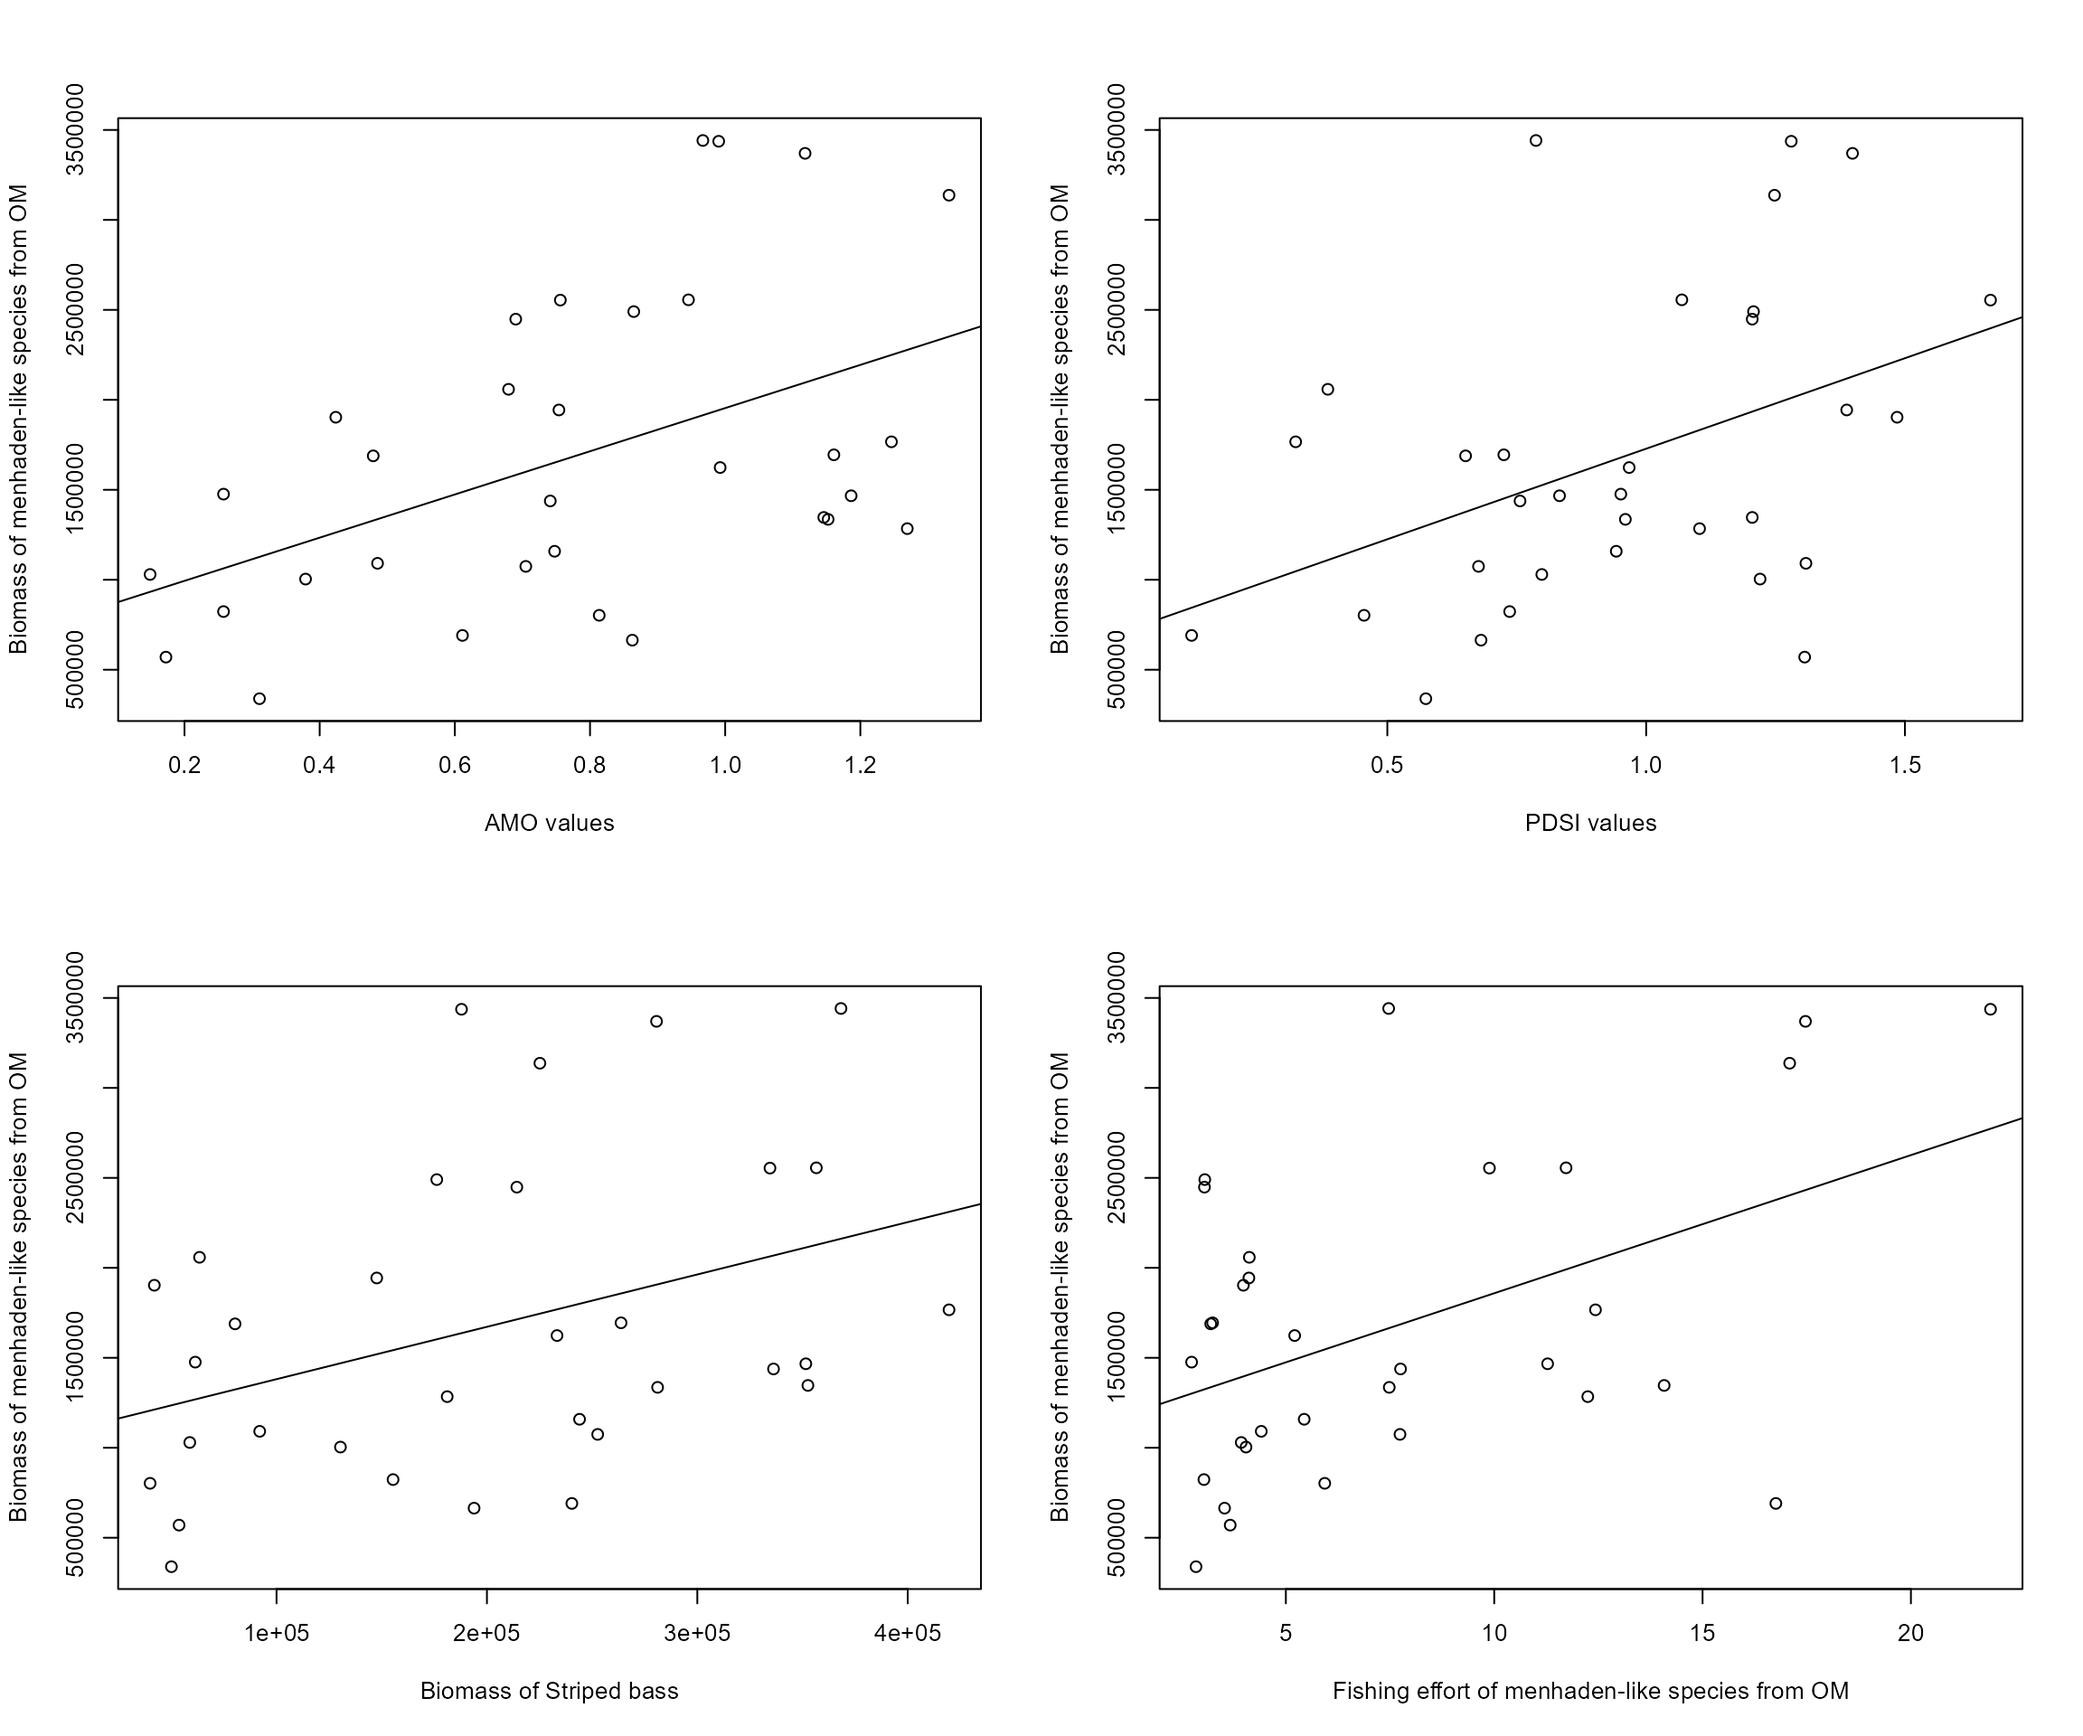
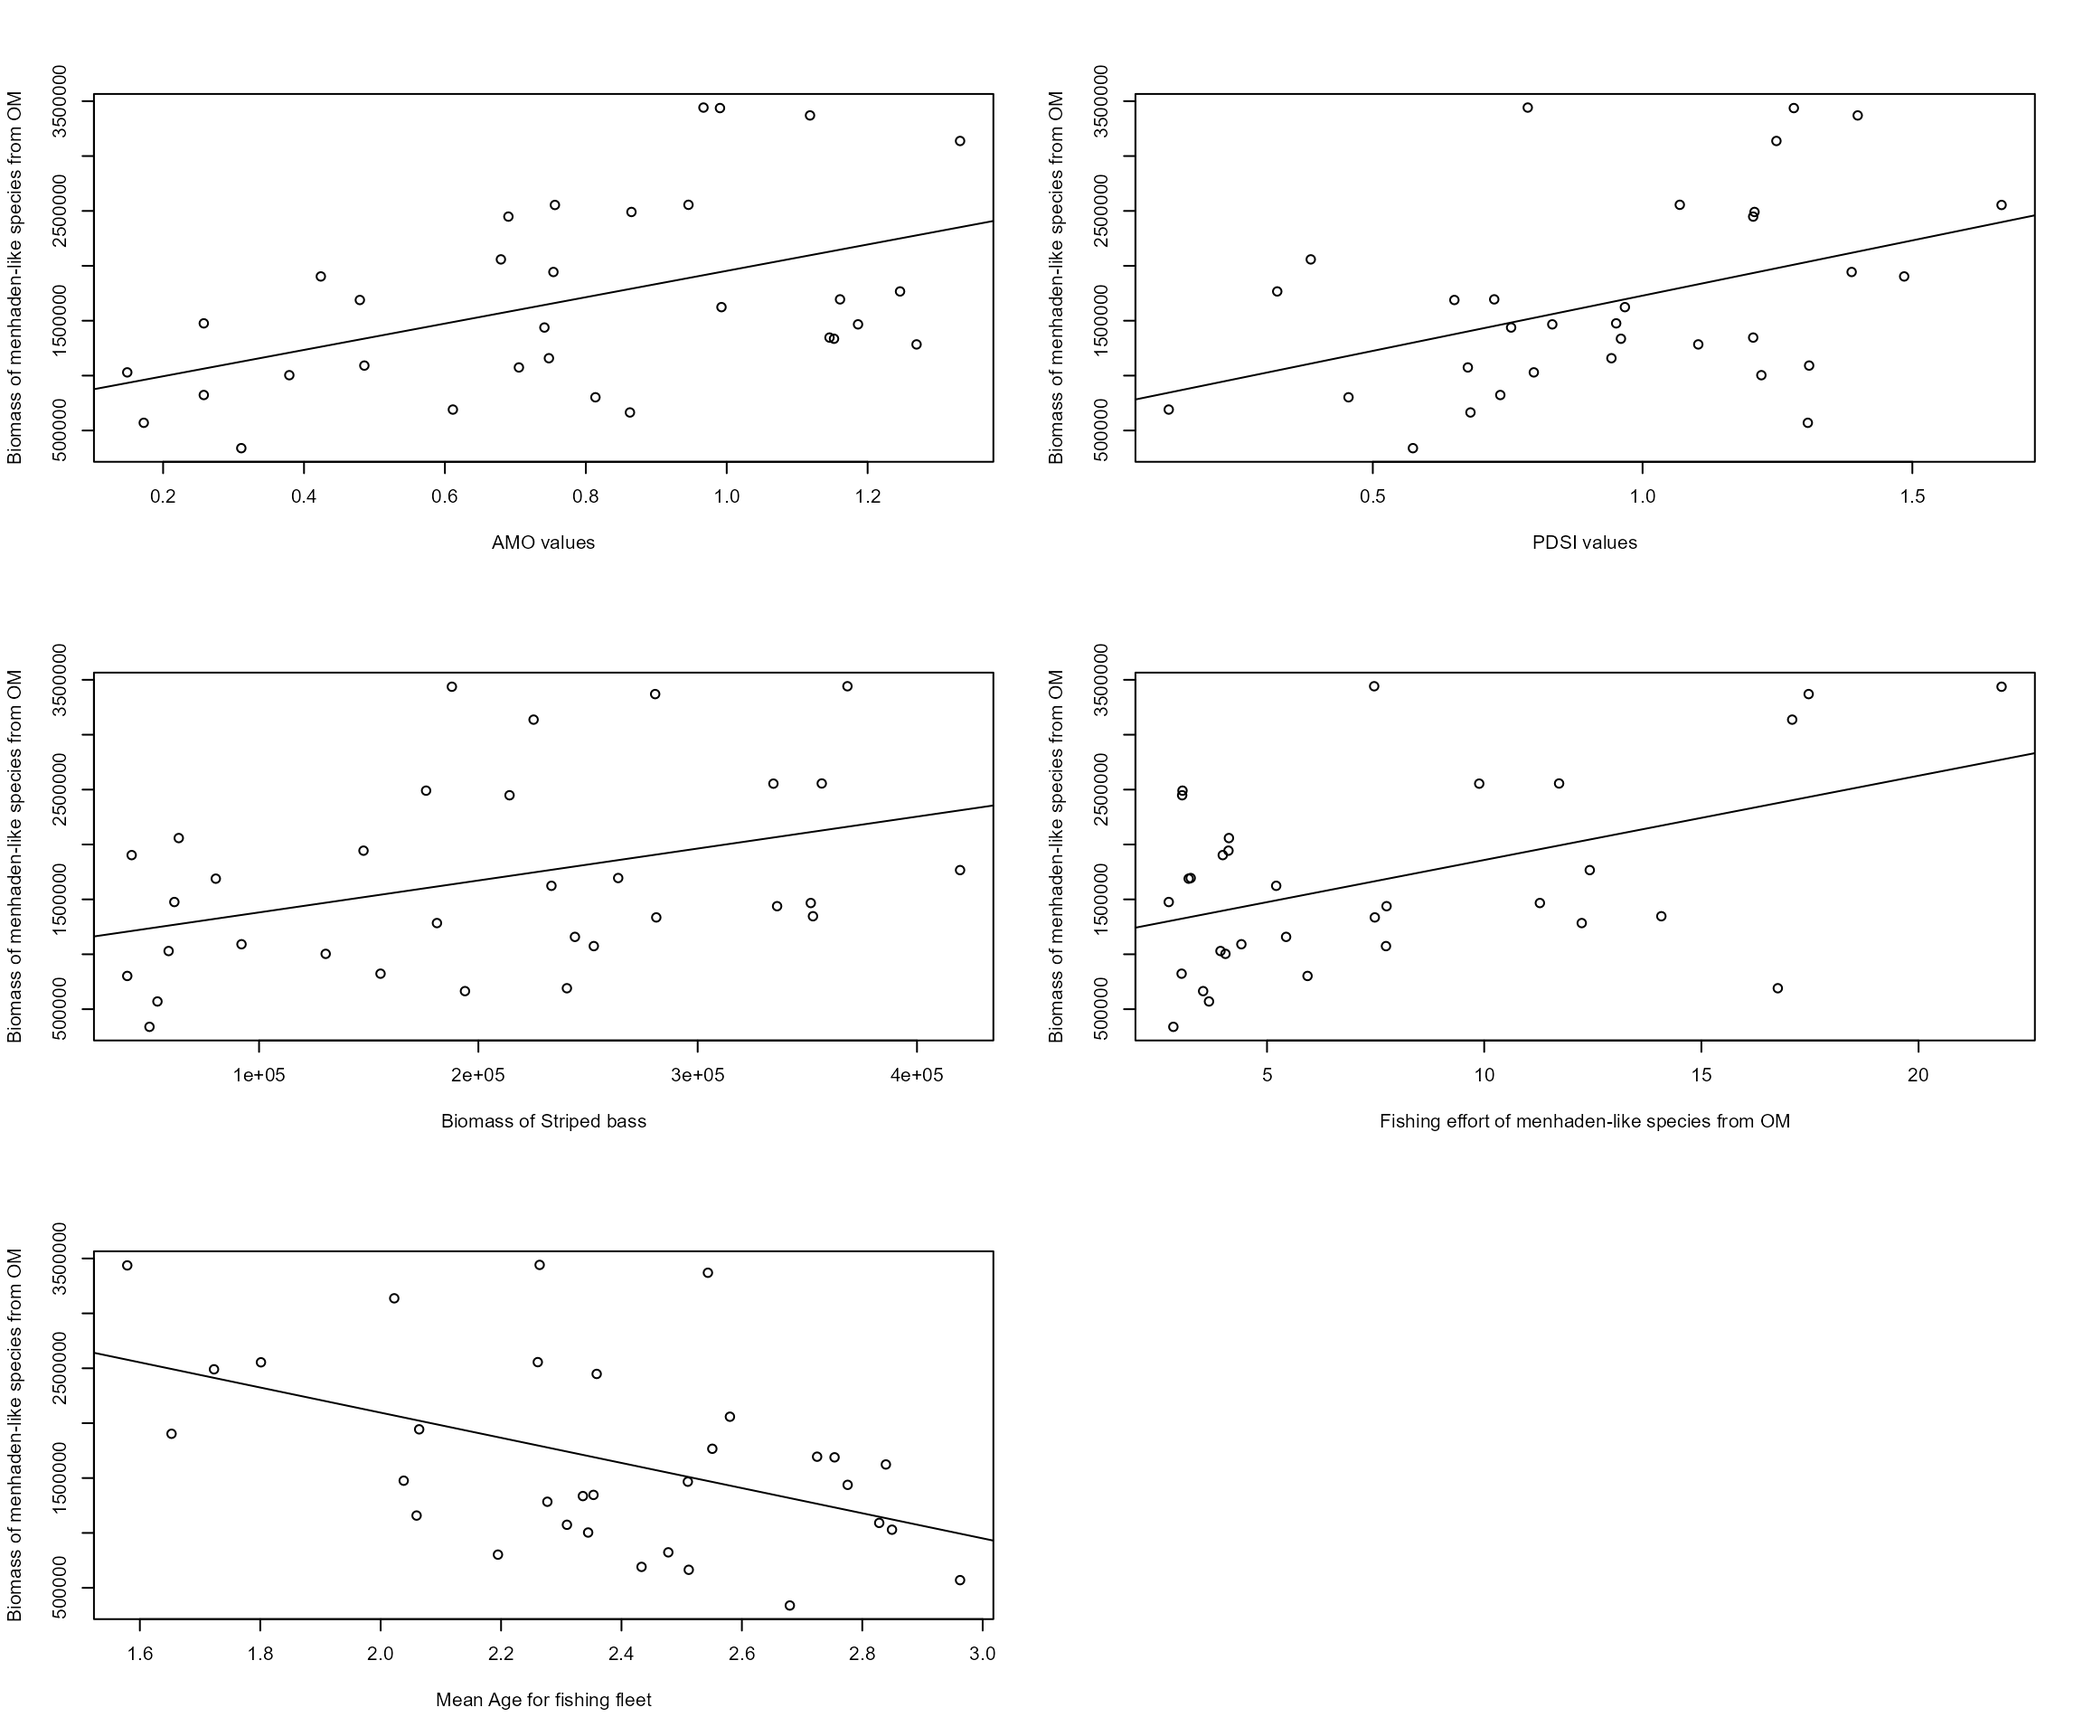
updata vignettes and docs

diff --git a/docs/articles/13_Data_rich_stock_assessmet_with_new_EwE_OM.html b/docs/articles/13_Data_rich_stock_assessmet_with_new_EwE_OM.html
@@ -165,22 +165,19 @@
 <li>Case 2: Link Palmer drought severity index with menhaden biomass estimates and adjust projections: PSDI is a long-term indicator of drought conditions and it reflects river discharge and precipitation</li>
 <li>Case 3: Link biomass of Striped bass from the EwE with menhaden biomass estimates and adjust projections because bass is a major predator</li>
 <li>Case 4: Link fishing effort of menhaden with menhaden biomass estimates and adjust projections</li>
-<li>Linear regression models from case 1 - 4
+<li>Case 5: Link mean age for fishing fleet with menhaden biomass estimates and adjust projections</li>
+<li>Linear regression models from case 1 - 5
 <ul>
-<li>True biomass of menhaden-like species as functions of AMO, PDSI, biomass of striped bass, and fishing effort of menhaden</li>
+<li>True biomass of menhaden-like species as functions of AMO, PDSI, biomass of striped bass, fishing effort of menhaden, mean age for fishing fleet</li>
 </ul>
 </li>
 </ul>
-<div class="section level3">
-<h3 id="status-of-indicators-soi">Status of indicators (SOI)<a class="anchor" aria-label="anchor" href="#status-of-indicators-soi"></a>
-</h3>
+<p><img src="13_Data_rich_stock_assessmet_with_new_EwE_OM_files/figure-html/unnamed-chunk-4-1.png" width="1152"> ### Status of indicators (SOI)</p>
 <ul>
 <li><p>If stock-indicator relationship is positive, <span class="math inline">\(SOI_{y} = \frac{I_{y}-I_{y}^{min}}{I_{y}^{max}-I_{y}^{min}}\)</span></p></li>
 <li><p>If stock-indicator relationship is negative, <span class="math inline">\(SOI_{y} = 1-\frac{I_{y}-I_{y}^{min}}{I_{y}^{max}-I_{y}^{min}}\)</span></p></li>
 </ul>
 <p>where <span class="math inline">\(I_{y}\)</span> represents indicator value in year y. <span class="math inline">\(I_{y}^{min}\)</span> and <span class="math inline">\(I_{y}^{max}\)</span> represent the minimum and maximum values of <span class="math inline">\(I\)</span> from the time series.</p>
-<p><img src="13_Data_rich_stock_assessmet_with_new_EwE_OM_files/figure-html/unnamed-chunk-4-1.png" width="1152"></p>
-</div>
 <div class="section level3">
 <h3 id="adjust-projection">Adjust projection<a class="anchor" aria-label="anchor" href="#adjust-projection"></a>
 </h3>
@@ -190,7 +187,7 @@
 <li><p>If <span class="math inline">\(\frac{B2012_{i}}{BMSY} \le 0.5\)</span>, <span class="math inline">\(F^{'}_{i} = 0\)</span></p></li>
 </ul>
 <p>where <span class="math inline">\(i\)</span> represents individual iterations</p>
-<p><img src="13_Data_rich_stock_assessmet_with_new_EwE_OM_files/figure-html/unnamed-chunk-5-1.png" width="1152"><img src="13_Data_rich_stock_assessmet_with_new_EwE_OM_files/figure-html/unnamed-chunk-5-2.png" width="1152"><img src="13_Data_rich_stock_assessmet_with_new_EwE_OM_files/figure-html/unnamed-chunk-5-3.png" width="1152"><img src="13_Data_rich_stock_assessmet_with_new_EwE_OM_files/figure-html/unnamed-chunk-5-4.png" width="1152"></p>
+<p><img src="13_Data_rich_stock_assessmet_with_new_EwE_OM_files/figure-html/unnamed-chunk-5-1.png" width="1152"></p>
 <ul>
 <li>Slope values from linear regression models</li>
 </ul>
@@ -214,6 +211,9 @@ bassB
 <th style="text-align:left;">
 effort
 </th>
+<th style="text-align:left;">
+meanage
+</th>
 </tr></thead>
 <tbody>
 <tr>
@@ -235,6 +235,9 @@ PDSI+AMO1 Case
 <td style="text-align:left;">
 88720.37*
 </td>
+<td style="text-align:left;">
+-1612644.35*
+</td>
 </tr>
 <tr>
 <td style="text-align:left;">
@@ -254,6 +257,9 @@ PDSI+AMO1 Case
 </td>
 <td style="text-align:left;">
 88720.37*
+</td>
+<td style="text-align:left;">
+-1612644.35*
 </td>
 </tr>
 <tr>
@@ -275,6 +281,9 @@ PDSI+AMO1 Case
 <td style="text-align:left;">
 88720.37*
 </td>
+<td style="text-align:left;">
+-1612644.35*
+</td>
 </tr>
 <tr>
 <td style="text-align:left;">
@@ -294,6 +303,9 @@ PDSI+AMO1 Case
 </td>
 <td style="text-align:left;">
 88720.37*
+</td>
+<td style="text-align:left;">
+-1612644.35*
 </td>
 </tr>
 <tr>
@@ -315,13 +327,17 @@ PDSI+AMO1 Case
 <td style="text-align:left;">
 88720.37*
 </td>
+<td style="text-align:left;">
+-1612644.35*
+</td>
 </tr>
 </tbody>
 </table>
 <ul>
-<li>Project biomass based on adjusted <span class="math inline">\(FMSY\)</span> <img src="13_Data_rich_stock_assessmet_with_new_EwE_OM_files/figure-html/unnamed-chunk-7-1.png" width="1152"><img src="13_Data_rich_stock_assessmet_with_new_EwE_OM_files/figure-html/unnamed-chunk-7-2.png" width="1152"><img src="13_Data_rich_stock_assessmet_with_new_EwE_OM_files/figure-html/unnamed-chunk-8-1.png" width="1152">
+<li>Project biomass based on adjusted <span class="math inline">\(FMSY\)</span> <img src="13_Data_rich_stock_assessmet_with_new_EwE_OM_files/figure-html/unnamed-chunk-7-1.png" width="1152"><img src="13_Data_rich_stock_assessmet_with_new_EwE_OM_files/figure-html/unnamed-chunk-7-2.png" width="1152">
 </li>
 </ul>
+<p><img src="13_Data_rich_stock_assessmet_with_new_EwE_OM_files/figure-html/unnamed-chunk-8-1.png" width="1152"></p>
 </div>
 </div>
   </div>
